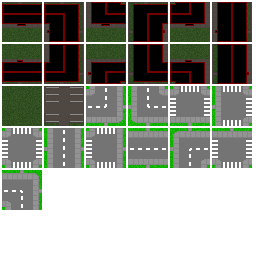
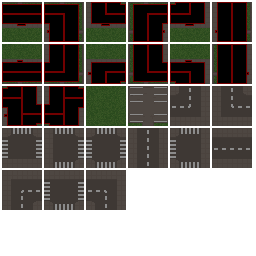
neue Grafiken eingepflegt und rendern von linear auf nearest gestellt

diff --git a/Pixokalypse-Prototypes/src/com/we/PixokalypsePrototypes/test/Map.java b/Pixokalypse-Prototypes/src/com/we/PixokalypsePrototypes/test/Map.java
@@ -133,7 +133,7 @@ public class Map {
 
 //		Geb.kreuzung also Nord Ost Süd West Geb.
 		
-		if(!done)if((this.testNeighboursForFieldType(field, 
+		if(!done)if(this.testNeighboursForFieldType(field, 
 				true,//auf true prüfen? true
 				FieldCategory.BUILDING, 
 				true, 	//Nord
@@ -156,8 +156,16 @@ public class Map {
 						true, 	//Süd-West
 						false, 	//West
 						false)	//Nord-West
-				)||
-				(this.testNeighboursForFieldType(field, 
+				){
+			field.spriteName = "A-X1";
+			done = true;			
+		}
+				
+				
+				
+				
+				
+		if(!done)if(this.testNeighboursForFieldType(field, 
 				true,//auf true prüfen? true
 				FieldCategory.BUILDING, 
 				true, 	//Nord
@@ -180,9 +188,8 @@ public class Map {
 						false, 	//Süd-West
 						false, 	//West
 						true)	//Nord-West)
-						)){
-			
-			field.spriteName = "strORUL1";
+						){
+			field.spriteName = "A-X0";
 			done = true;
 		}
 	

diff --git a/Pixokalypse-Prototypes/src/potentialField/PotentialFieldManager.java b/Pixokalypse-Prototypes/src/potentialField/PotentialFieldManager.java
@@ -80,7 +80,7 @@ public class PotentialFieldManager {
 				System.out.println("Spritename: "+map.data[j][i].spriteName);
 				int[][] collisionmap = spriteCollisionMapContainer.getSpriteCollisionmap(map.data[j][i].spriteName);
 				for(int row = 0; row < tileSize;row++){
-					if(collisionmap == null)System.out.println("collisionMap is NULL");
+					if(collisionmap == null)System.out.println("collisionMap is NULL für sprite: "+map.data[j][i].spriteName);
 					if(environmentMap == null)System.out.println("enviromentnMap is NULL");
 					System.arraycopy( collisionmap[39-row], 0, environmentMap.fieldArray[row+j*tileSize], i*tileSize, tileSize);
 				}
